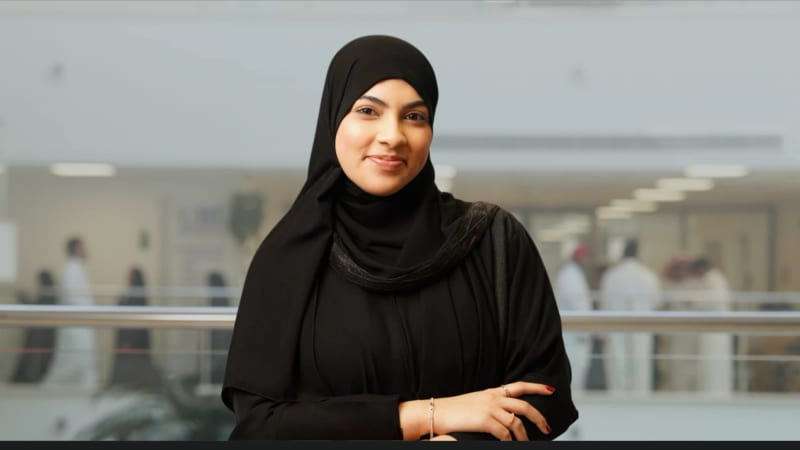
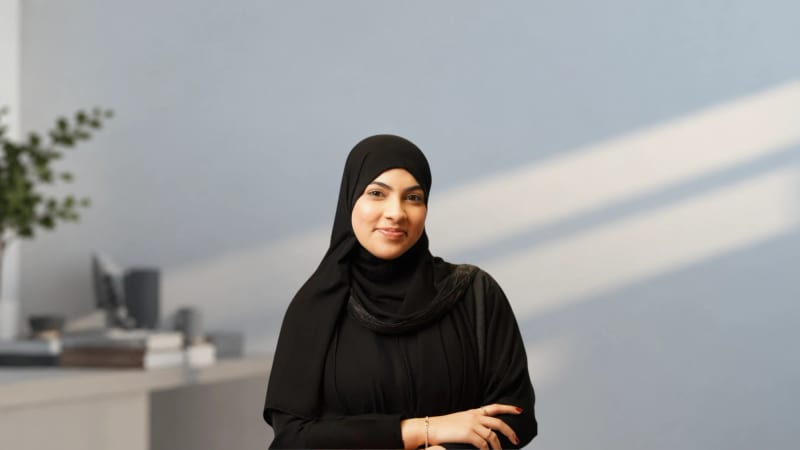
New header, and the scroll stays on frame
Header takes the new portrait. The About intro keeps the old one — it
was pointing at the hero's file, so replacing the header would have
replaced that too. It owns a copy now, at /assets/about/maryam-intro.jpg,
and the two can move independently.

Scrolling:
- useNavGround sampled on every animation frame, and each sample is an
  elementFromPoint plus a getComputedStyle walk up the tree — two forced
  style recalculations per frame, inside the scroll. The ground under the
  bar changes at section boundaries, not per frame, so it is throttled to
  140ms. Still immediate to the eye, off the hot path.
- Five slides were shipping as 0.5-2.4MB PNGs. Each already had a small
  WebP beside it, so most visitors never saw them, but the fallback was
  7MB of PNG for anyone whose browser did not take the WebP. They are
  JPEGs now and the references follow.
- The Flaire poster was serving at 3120x4160 for a frame that is never
  wider than ~650px, and the agentic AI cover at 2160. Both capped at
  1600: 1.8MB saved between them.

Measured over a scripted scroll of four routes: 16.7ms median, 17.6ms
p95, and not one frame over 32ms.

The new frame's top right is a blue-grey wall rather than the white
ceiling the last one had, and the bar's secondary grey measured 4.45:1
there — just under. No gradient: the links go to full ink over a
declared photographic ground, which is where that grey had no contrast
to spare. 8.9:1 now.
[…]

diff --git a/src/data/work.ts b/src/data/work.ts
@@ -86,8 +86,8 @@ export const work: WorkItem[] = [
       'Presented the concept at Sparkathon',
     ],
     result: 'TOP 14 TEAMS IN SAUDI ARABIA',
-    images: [{ src: '/assets/business/equifinance-pitch.png', alt: 'Equi-Finance Sparkathon pitch presentation with the team members', caption: 'Sparkathon presentation', ratio: '16/9' }],
-    featuredMedia: { src: '/assets/business/equifinance-pitch.png', alt: 'Equi-Finance Sparkathon pitch presentation', ratio: '16/9' },
+    images: [{ src: '/assets/business/equifinance-pitch.jpg', alt: 'Equi-Finance Sparkathon pitch presentation with the team members', caption: 'Sparkathon presentation', ratio: '16/9' }],
+    featuredMedia: { src: '/assets/business/equifinance-pitch.jpg', alt: 'Equi-Finance Sparkathon pitch presentation', ratio: '16/9' },
     externalLinks: [{ label: 'Watch the Sparkathon presentation', href: 'https://www.linkedin.com/posts/maryam-imran-274056252_equifinance-ubtsparkathon-innovation-activity-7265325120347332609-abhu' }],
     showInIndex: true,
     showInSpeaking: false,
@@ -207,8 +207,8 @@ export const work: WorkItem[] = [
     externalLinks: [
       { label: 'Watch the final presentation', href: 'https://youtu.be/5KyHnjN5_RQ?t=1635' },
     ],
-    images: [{ src: '/assets/business/moonshot-team.png', alt: 'Maryam and her Moonshot Pirates teammates in their online final presentation', caption: 'Sustenance team presentation', ratio: '16/9' }],
-    featuredMedia: { src: '/assets/business/moonshot-team.png', alt: 'Moonshot Pirates Sustenance presentation', ratio: '16/9' },
+    images: [{ src: '/assets/business/moonshot-team.jpg', alt: 'Maryam and her Moonshot Pirates teammates in their online final presentation', caption: 'Sustenance team presentation', ratio: '16/9' }],
+    featuredMedia: { src: '/assets/business/moonshot-team.jpg', alt: 'Moonshot Pirates Sustenance presentation', ratio: '16/9' },
     videos: [{ title: 'Final presentation', kind: 'youtube', src: 'https://www.youtube-nocookie.com/embed/5KyHnjN5_RQ?start=1635' }],
     documents: [{ label: 'Top 7 certificate', src: '/assets/certificates/moonshot-certificate.pdf', pages: 1 }],
     showInIndex: true,
@@ -257,11 +257,11 @@ export const work: WorkItem[] = [
     ],
     contribution: ['Researched the fragrance market and the consumer discovery problem', 'Helped develop the AI scent-discovery, collectible bottle and refill concept', 'Built the business model and commercial case for the presentation'],
     images: [
-      { src: '/assets/business/loreal-concept.png', alt: 'Replica Artefacts concept, scent passport and refillable bottle presentation slide', caption: 'Concept', ratio: '16/9' },
-      { src: '/assets/business/loreal-market.png', alt: 'L’Oréal Brandstorm fragrance market research slide', caption: 'Market research', ratio: '16/9' },
-      { src: '/assets/business/loreal-business-model.png', alt: 'L’Oréal Brandstorm business model and KPIs slide', caption: 'Business model', ratio: '16/9' },
+      { src: '/assets/business/loreal-concept.jpg', alt: 'Replica Artefacts concept, scent passport and refillable bottle presentation slide', caption: 'Concept', ratio: '16/9' },
+      { src: '/assets/business/loreal-market.jpg', alt: 'L’Oréal Brandstorm fragrance market research slide', caption: 'Market research', ratio: '16/9' },
+      { src: '/assets/business/loreal-business-model.jpg', alt: 'L’Oréal Brandstorm business model and KPIs slide', caption: 'Business model', ratio: '16/9' },
     ],
-    featuredMedia: { src: '/assets/business/loreal-concept.png', alt: 'Replica Artefacts fragrance concept', ratio: '16/9' },
+    featuredMedia: { src: '/assets/business/loreal-concept.jpg', alt: 'Replica Artefacts fragrance concept', ratio: '16/9' },
     videos: [{ title: 'Brandstorm submission video', kind: 'file', src: '/assets/videos/loreal-brandstorm.mp4', poster: '/assets/business/loreal-video-poster.jpg', ratio: '848 / 480' }],
     documents: [{ label: 'L’Oréal Brandstorm certificate', src: '/assets/certificates/loreal-brandstorm-certificate.pdf', pages: 1 }],
     showInIndex: true,

diff --git a/src/hooks/useNavGround.ts b/src/hooks/useNavGround.ts
@@ -5,9 +5,12 @@ export interface NavGround {
   color: string;
   /** True when that ground is dark enough to need light type. */
   dark: boolean;
+  /** True when a section declared its treatment — i.e. the bar is over a
+      photograph, where secondary greys do not have the contrast to spare. */
+  declared: boolean;
 }
 
-const DEFAULT: NavGround = { color: '#F4F2ED', dark: false };
+const DEFAULT: NavGround = { color: '#F4F2ED', dark: false, declared: false };
 
 function parseRgb(value: string): [number, number, number] | null {
   const m = value.match(/rgba?\(([^)]+)\)/);
@@ -54,7 +57,9 @@ export function useNavGround(navHeight = 76): NavGround {
       if (declared) {
         const dark = declared.dataset.navGround === 'dark';
         const color = dark ? '#181A1D' : '#F4F2ED';
-        setGround((g) => (g.color === color && g.dark === dark ? g : { color, dark }));
+        setGround((g) =>
+          g.color === color && g.dark === dark && g.declared ? g : { color, dark, declared: true },
+        );
         return;
       }
 
@@ -75,18 +80,35 @@ export function useNavGround(navHeight = 76): NavGround {
       }
 
       if (!found) {
-        setGround((g) => (g.color === DEFAULT.color ? g : DEFAULT));
+        setGround((g) => (g.color === DEFAULT.color && !g.declared ? g : DEFAULT));
         return;
       }
 
       const color = `rgb(${found[0]}, ${found[1]}, ${found[2]})`;
       const dark = luminance(found) < 0.28;
-      setGround((g) => (g.color === color && g.dark === dark ? g : { color, dark }));
+      setGround((g) =>
+        g.color === color && g.dark === dark && !g.declared ? g : { color, dark, declared: false },
+      );
     };
 
+    /* Sampling means elementFromPoint plus a getComputedStyle walk up the
+       tree, and each of those forces a style recalculation. Running it on
+       every animation frame put that cost inside the scroll itself. The
+       ground under the bar changes at section boundaries, not per frame,
+       so it is throttled — still immediate to the eye, off the hot path. */
+    let last = 0;
+    let timer = 0;
+
     const onScroll = () => {
-      if (frame) return;
-      frame = requestAnimationFrame(sample);
+      if (frame || timer) return;
+      const since = performance.now() - last;
+      const run = () => {
+        timer = 0;
+        last = performance.now();
+        frame = requestAnimationFrame(sample);
+      };
+      if (since >= 140) run();
+      else timer = window.setTimeout(run, 140 - since);
     };
 
     sample();
@@ -95,6 +117,7 @@ export function useNavGround(navHeight = 76): NavGround {
 
     return () => {
       if (frame) cancelAnimationFrame(frame);
+      if (timer) clearTimeout(timer);
       window.removeEventListener('scroll', onScroll);
       window.removeEventListener('resize', onScroll);
     };

diff --git a/src/data/about.ts b/src/data/about.ts
@@ -25,12 +25,13 @@ export interface MontageItem {
   punchline?: boolean;
 }
 
-/* STAND-IN. The intended photograph is "WhatsApp Image 2025-11-01 at
-   14.36.06_c967b9b8.jpg", which has not reached the repository yet. Until
-   it does this borrows the environmental portrait so the page reads as
-   finished rather than as a hole; swap `src` and `ratio` when it lands. */
+/* STAND-IN, and now a file of its own. The intended photograph is
+   "WhatsApp Image 2025-11-01 at 14.36.06_c967b9b8.jpg", which has not
+   reached the repository. Until it does this holds the environmental
+   portrait the hero used to carry — copied, not shared, so changing the
+   header no longer changes this page. */
 export const introPortrait: MediaItem = {
-  src: '/assets/portrait/maryam-portrait.jpg',
+  src: '/assets/about/maryam-intro.jpg',
   alt: 'Maryam Imran at the University of Business & Technology in Jeddah',
   ratio: '16/9',
   focus: '48% 28%',

diff --git a/src/components/Navigation/Navigation.tsx b/src/components/Navigation/Navigation.tsx
@@ -76,7 +76,7 @@ export function Navigation() {
 
   return (
     <header
-      className={`nav ${scrolled ? 'nav--scrolled' : ''} ${ground.dark ? 'nav--ondark' : ''} ${
+      className={`nav ${scrolled ? 'nav--scrolled' : ''} ${ground.dark ? 'nav--ondark' : ''} ${ground.declared ? 'nav--onphoto' : ''} ${
         open ? 'nav--menuopen' : ''
       }`}
       style={{ ['--nav-ground' as string]: ground.color }}

diff --git a/src/data/site.ts b/src/data/site.ts
@@ -38,7 +38,7 @@ export const site = {
     widths: [800, 1200, 2000],
     /* Where the face sits in the frame, as x% y%. The hero crops hard on
        tall viewports and this is what keeps her in shot. */
-    focus: '48% 28%',
+    focus: '50% 30%',
   },
 
   /* --- Resume ----------------------------------------------------------

diff --git a/src/components/Navigation/Navigation.css b/src/components/Navigation/Navigation.css
@@ -175,6 +175,12 @@
   color: var(--text);
 }
 
+/* Over a photograph the secondary grey has no contrast to spare — it
+   measured 4.45:1 on the header's blue-grey wall. Full ink there. */
+.nav--onphoto:not(.nav--ondark) .nav__link {
+  color: var(--text);
+}
+
 /* The cobalt current-page indicator. */
 .nav__dot {
   width: 4px;
